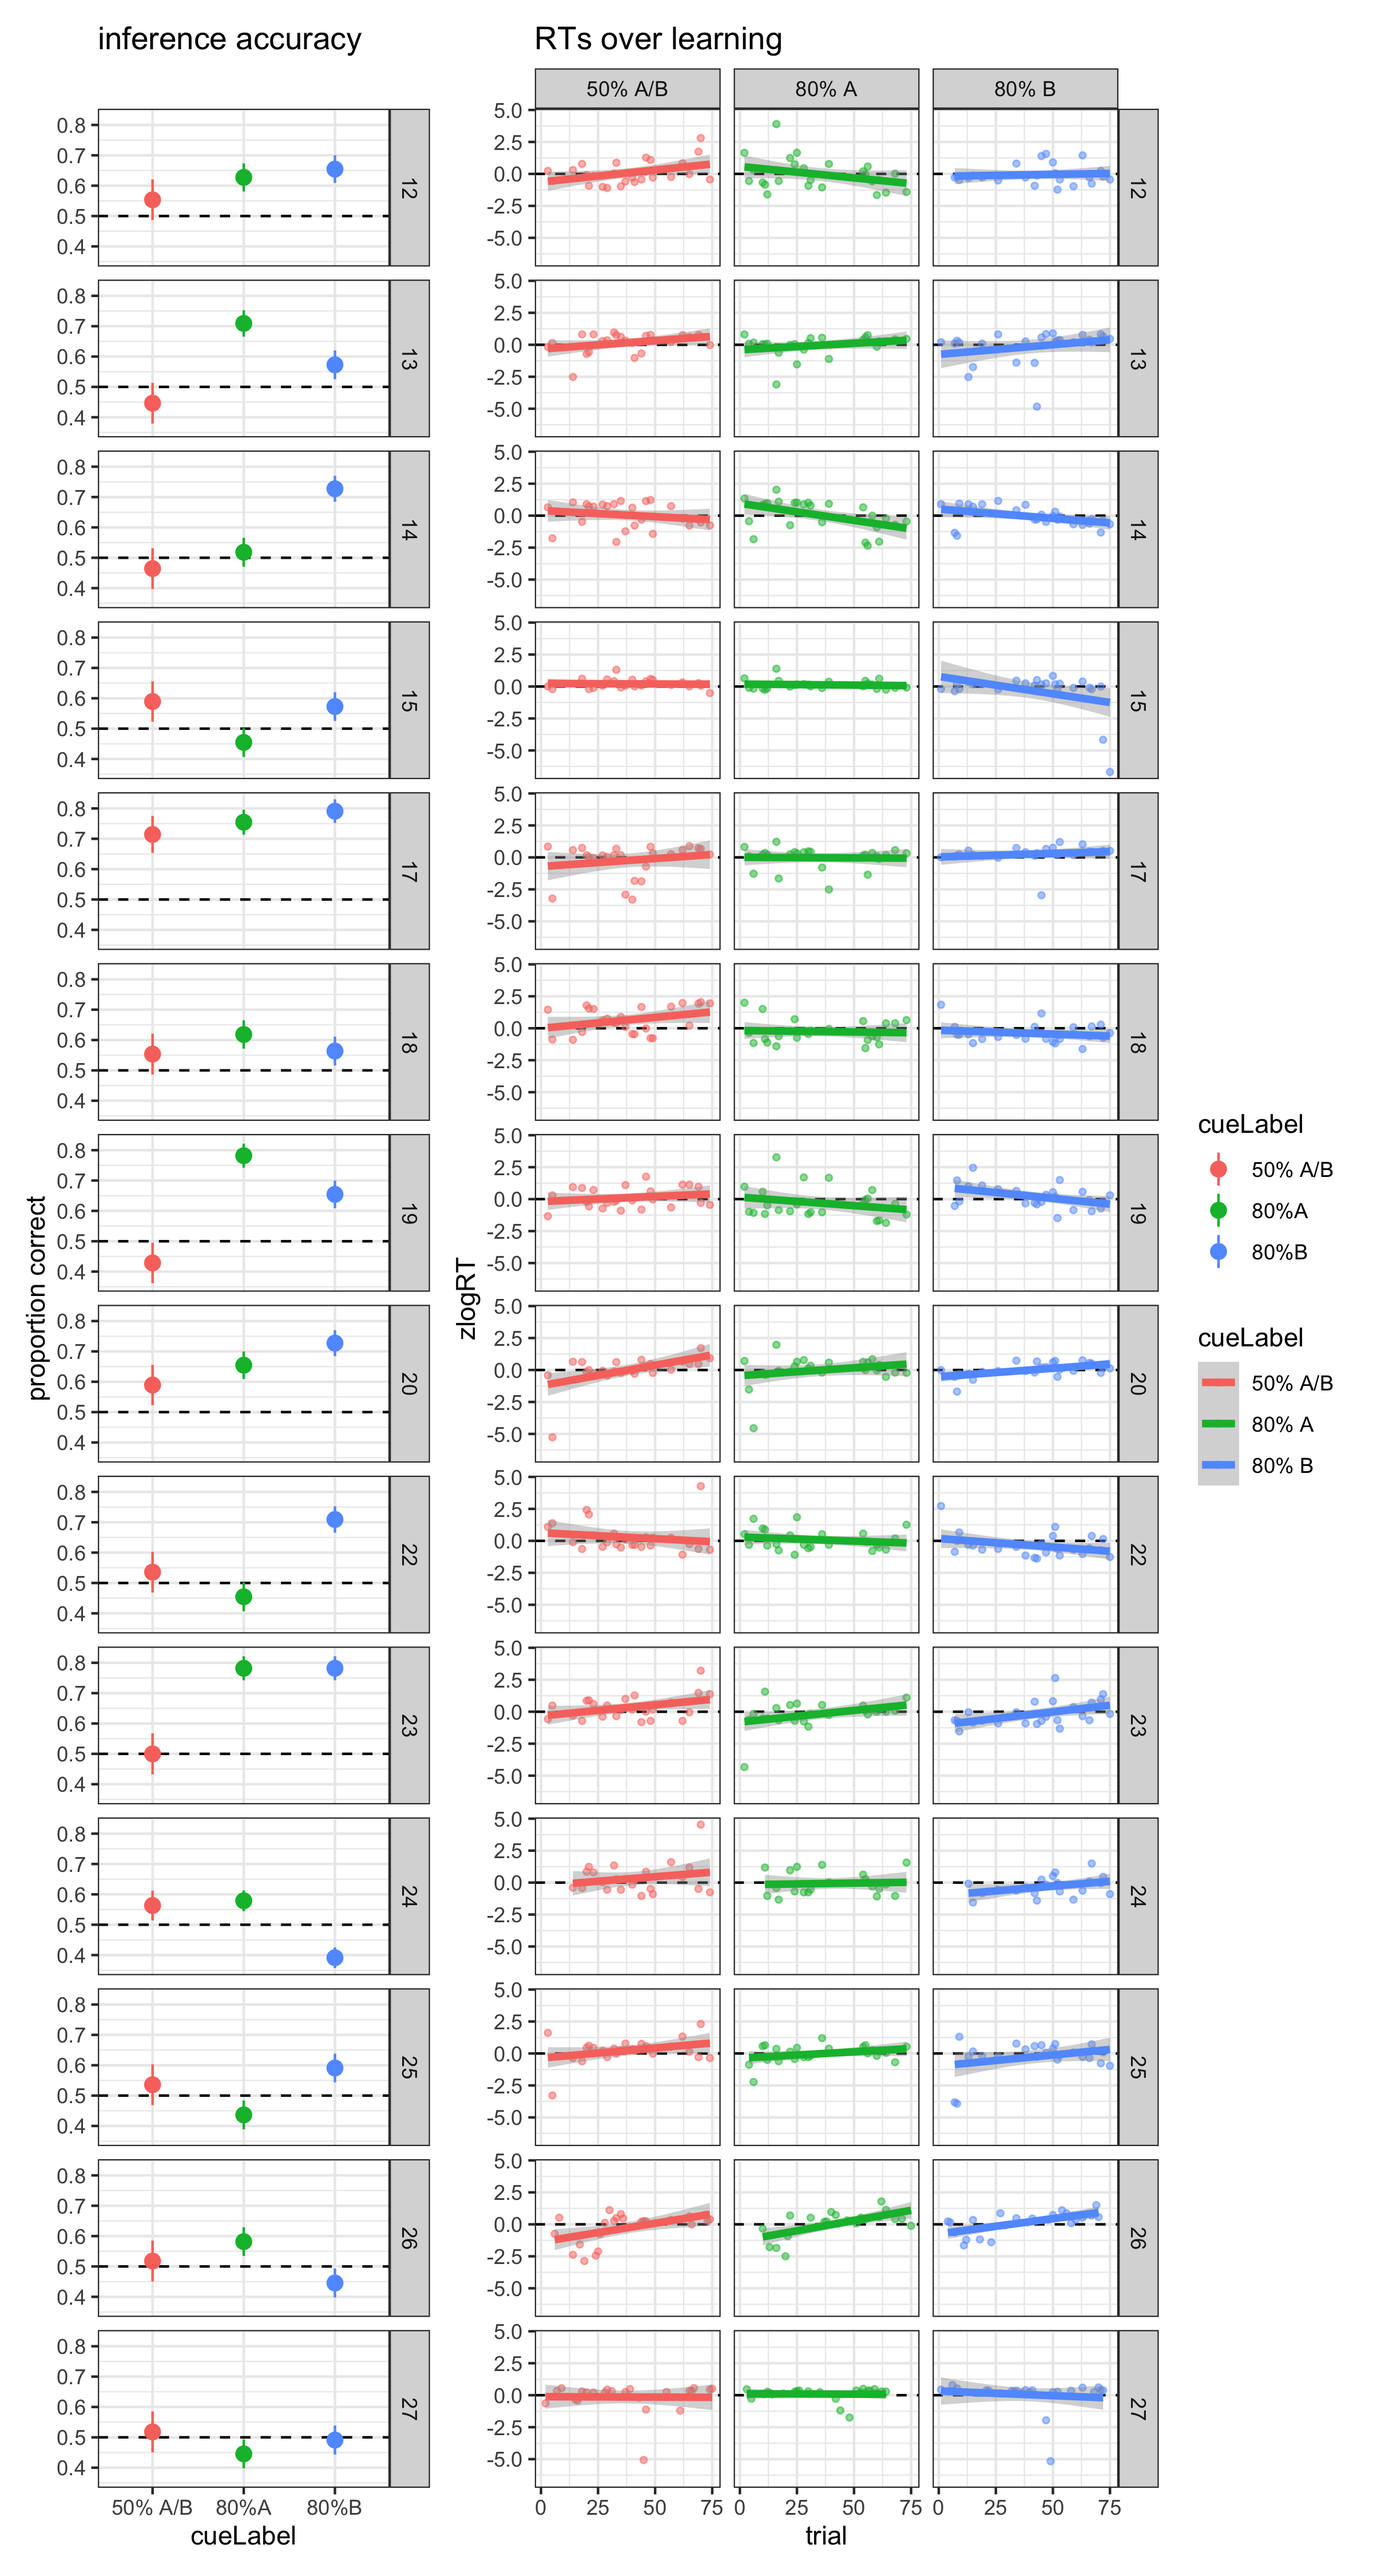
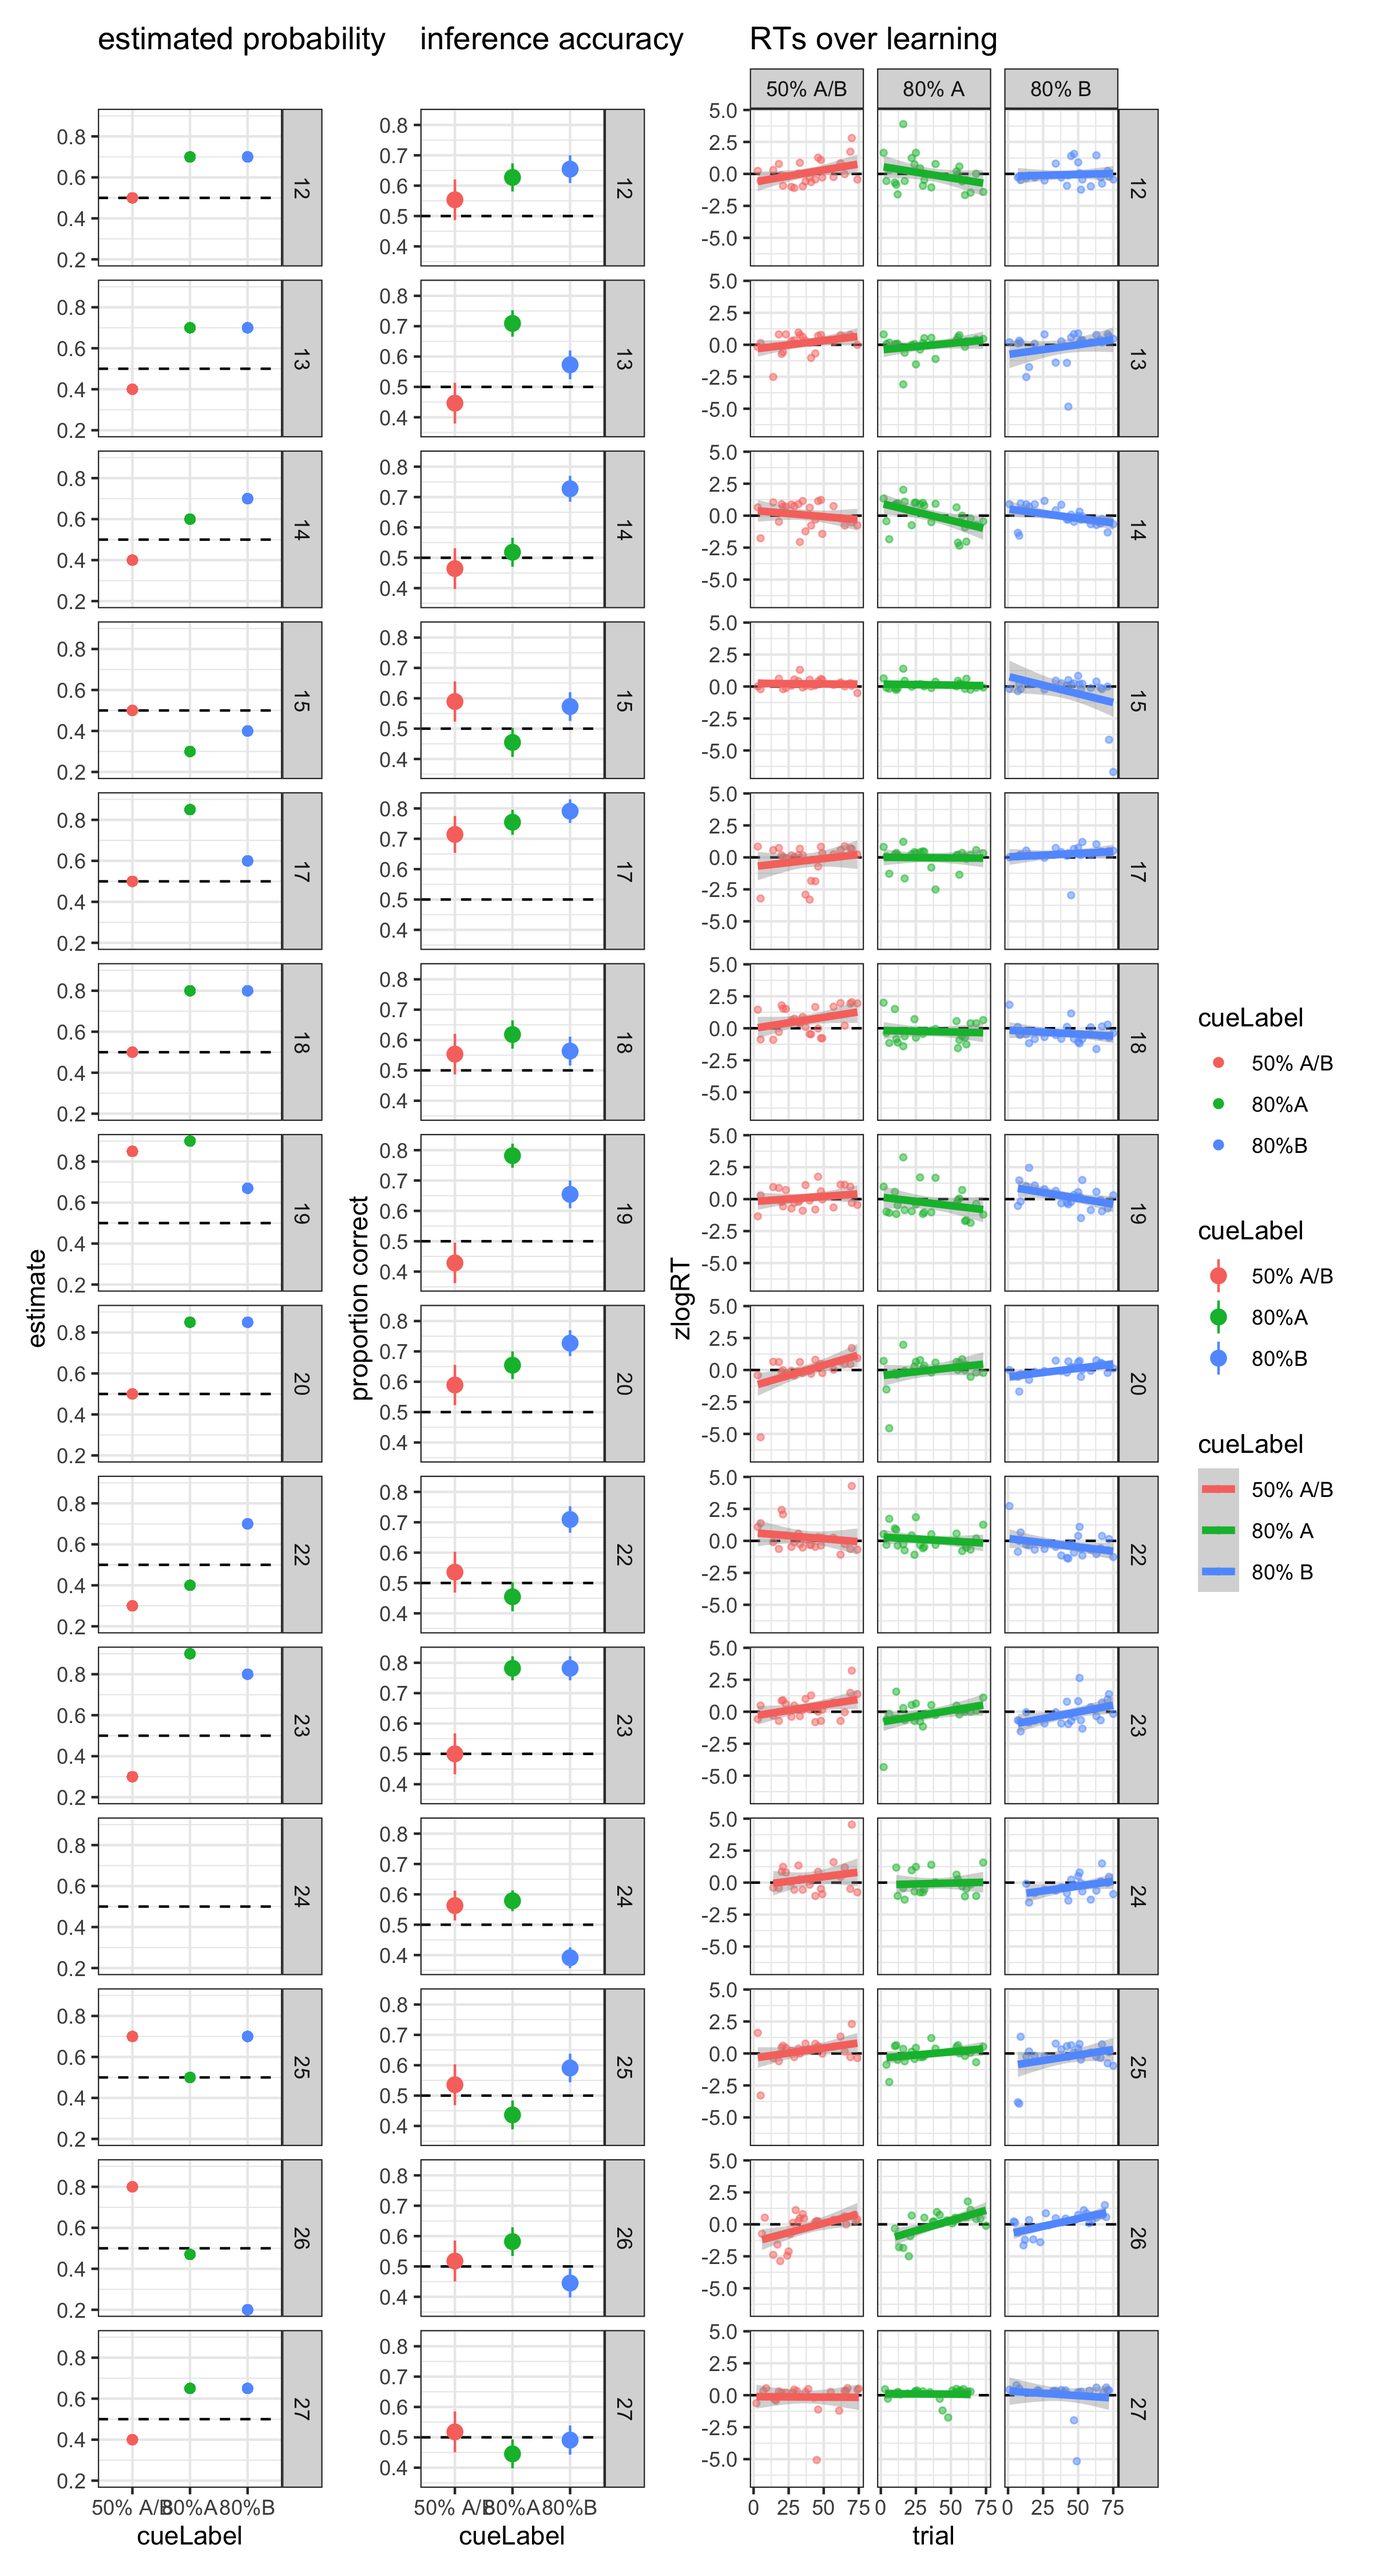
update notebook

Changed region(s): [[0.0, 0.0, 0.8125, 0.9956], [0.875, 0.4044, 0.9688, 0.6222]]

diff --git a/analysis/individual_analyses/individual_analyses.md b/analysis/individual_analyses/individual_analyses.md
@@ -55,7 +55,7 @@ subject:
 
 ![](individual_analyses_files/figure-gfm/learning%20accuracy-1.png)<!-- -->
 
-### what do their RTs look like during learning?
+### what do RTs look like during learning?
 
 ![](individual_analyses_files/figure-gfm/learning%20RTs-1.png)<!-- -->
 
@@ -65,6 +65,14 @@ subject:
 
 ### what can learning RTs for each cue tell us about how those cues affect decision performance?
 
-![](individual_analyses_files/figure-gfm/group%20inference%20summary-1.png)<!-- -->
+<img src="individual_analyses_files/figure-gfm/group inference summary-1.png" style="display: block; margin: auto;" />
+
+### what can learning RTs for each cue tell us about how those cues affect decision performance?
 
 ![](individual_analyses_files/figure-gfm/individual%20learnRTs%20+%20decision%20accuracy-1.png)<!-- -->
+
+### are choices better predicted by true or estimated cue probabilities?
+
+![](individual_analyses_files/figure-gfm/group%20regressions:%20accuracy-1.png)<!-- -->
+
+### what about choice probabilities?
